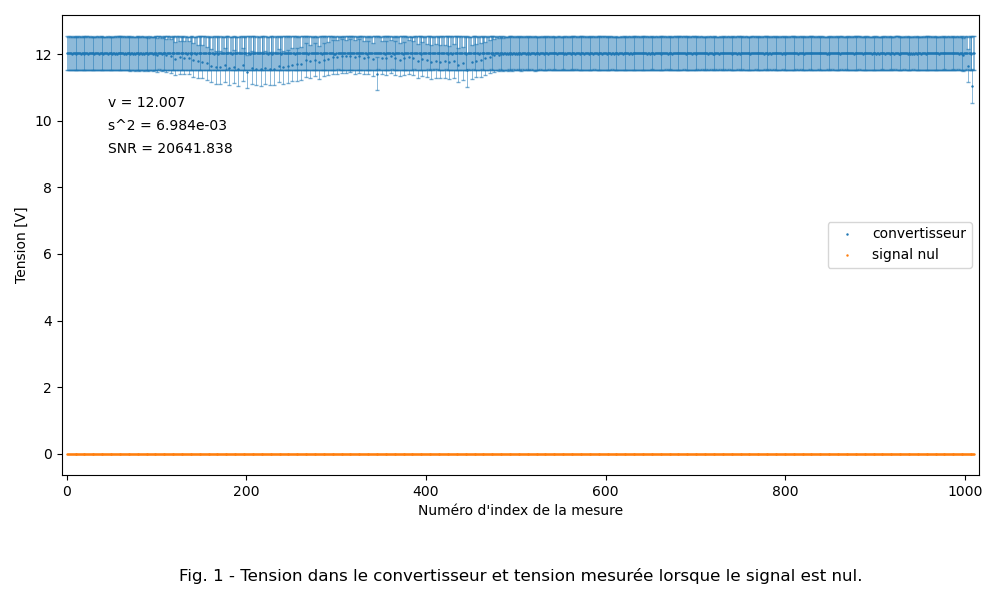
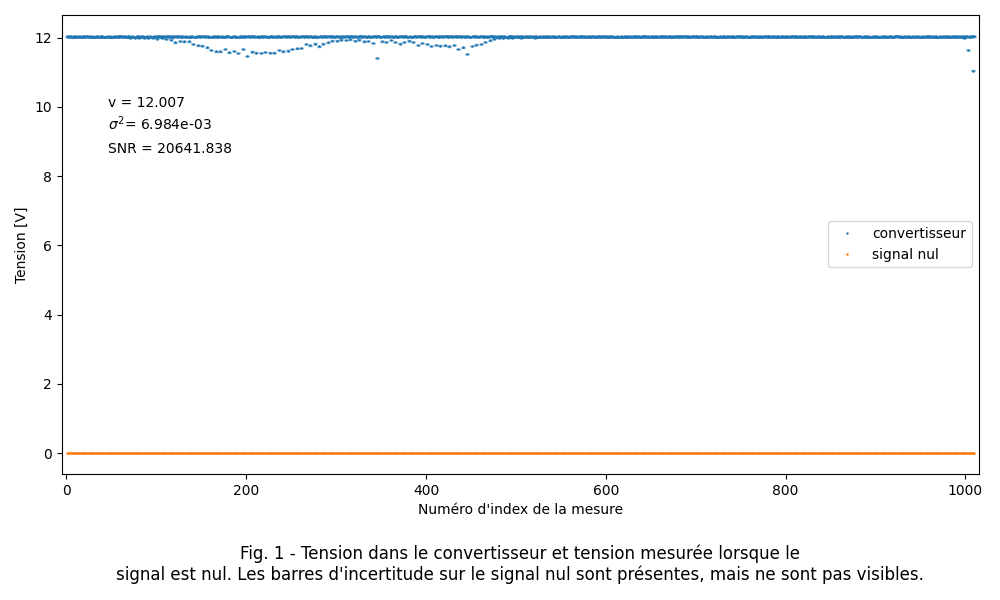
Nouvelle mesure incertitude

diff --git a/Labo1/Programmation/Graphique_tension_constante.py b/Labo1/Programmation/Graphique_tension_constante.py
@@ -32,7 +32,7 @@ nom = {0: 'convertisseur',
        5: "circuit"
        }
 
-num = 0  
+num = 0
 filepath = files[num]
 
 def read(file_name):
@@ -58,7 +58,7 @@ def snr(file_name, indice):
 
 def incertitude(array, indice):
     col = array[:, indice]
-    return 0.5 * (np.max(col) - np.min(col))
+    return abs(np.std(col)/np.mean(col))
 
 def graphiques_scatter(array):
     fig = plt.gcf()
@@ -81,13 +81,14 @@ def graphiques_scatter(array):
     plt.ylabel("Tension [V]")
 
     plt.title(
-        f"Fig. 1 - Tension dans {description[num]} et tension mesurée lorsque le signal est nul.",
+        f"Fig. 1 - Tension dans {description[num]} et tension mesurée lorsque le\nsignal est nul."
+        " Les barres d'incertitude sur le signal nul sont présentes, mais ne sont pas visibles.",
         y=-0.25
     )
 
     ax = plt.gca()
     ax.text(0.05, 0.80, f"v = {moyenne(filepath, 0):.3f}", transform=ax.transAxes)
-    ax.text(0.05, 0.75, f"s^2 = {variance(filepath, 0):.3e}", transform=ax.transAxes)
+    ax.text(0.05, 0.75, r"$\sigma^2$" + f"= {variance(filepath, 0):.3e}", transform=ax.transAxes)
     ax.text(0.05, 0.70, f"SNR = {snr(filepath, 0):.3f}", transform=ax.transAxes)
 
     plt.tight_layout()
